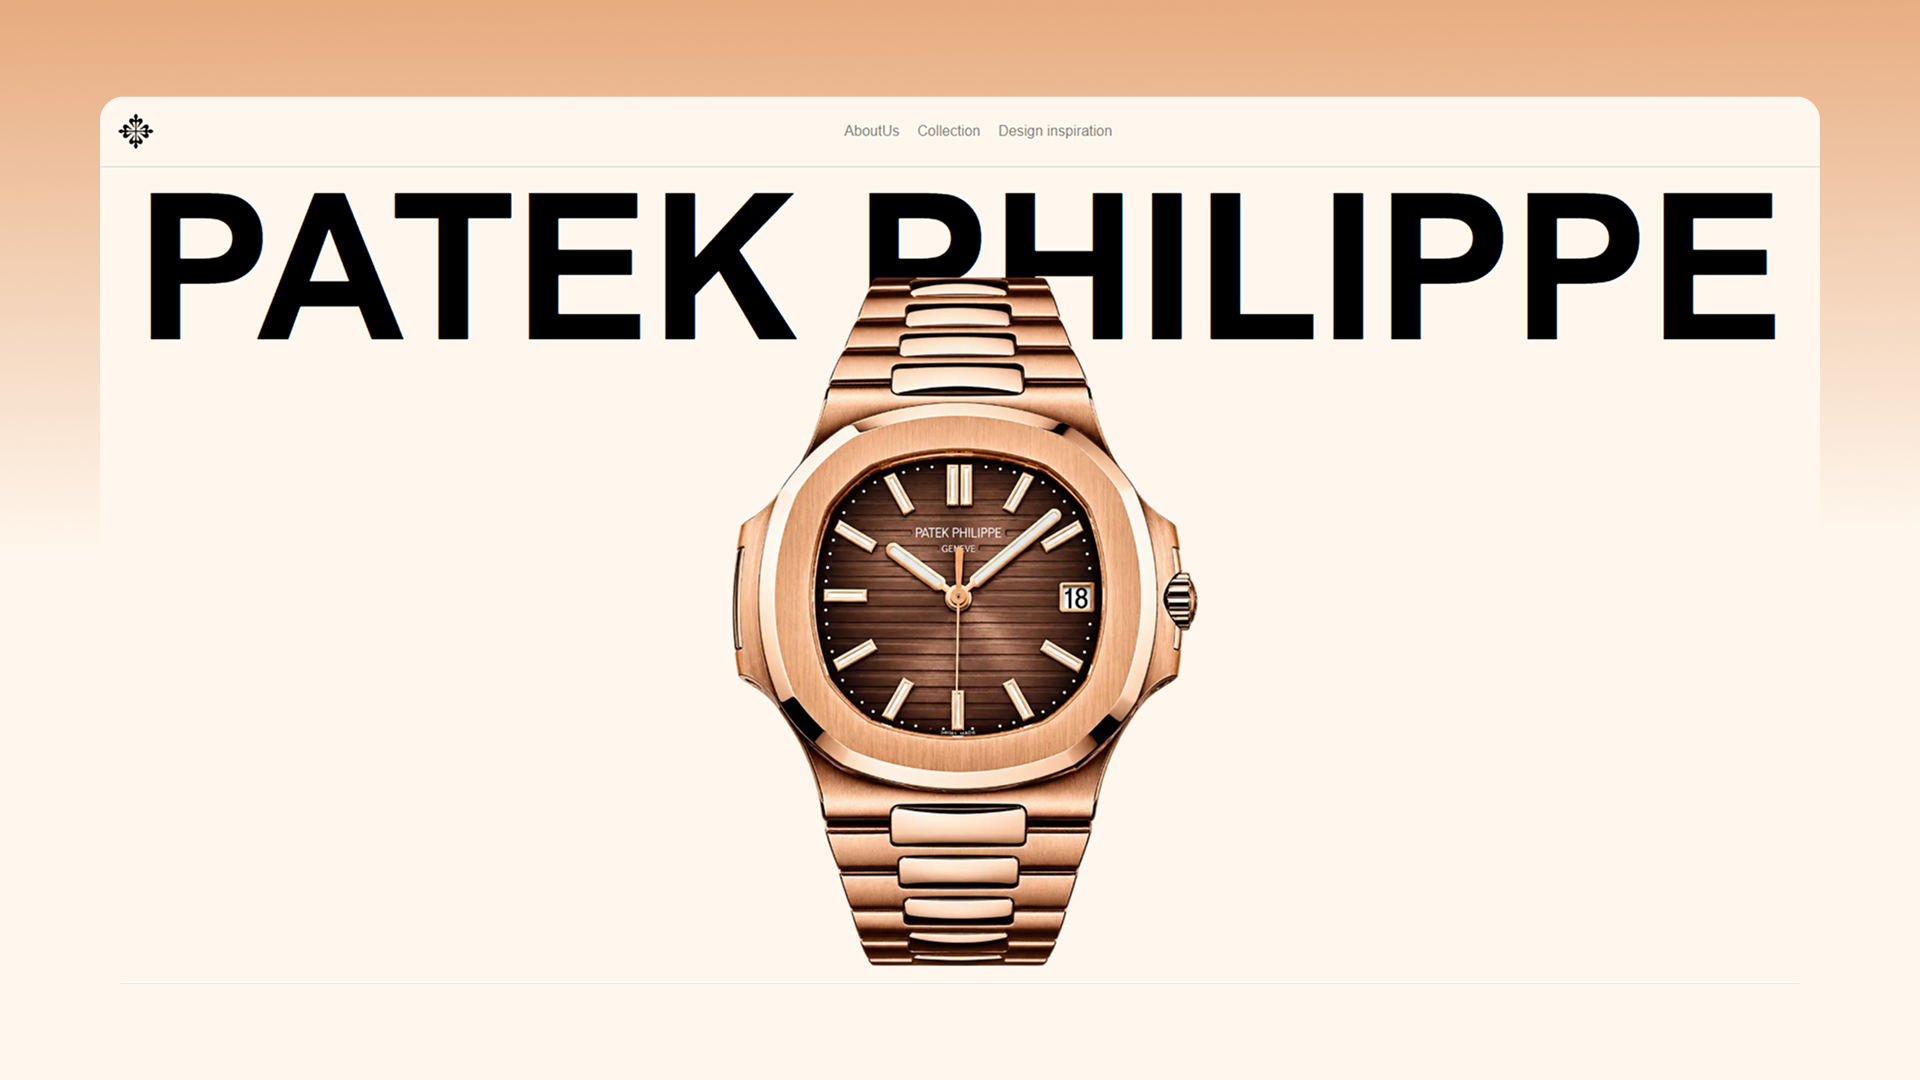
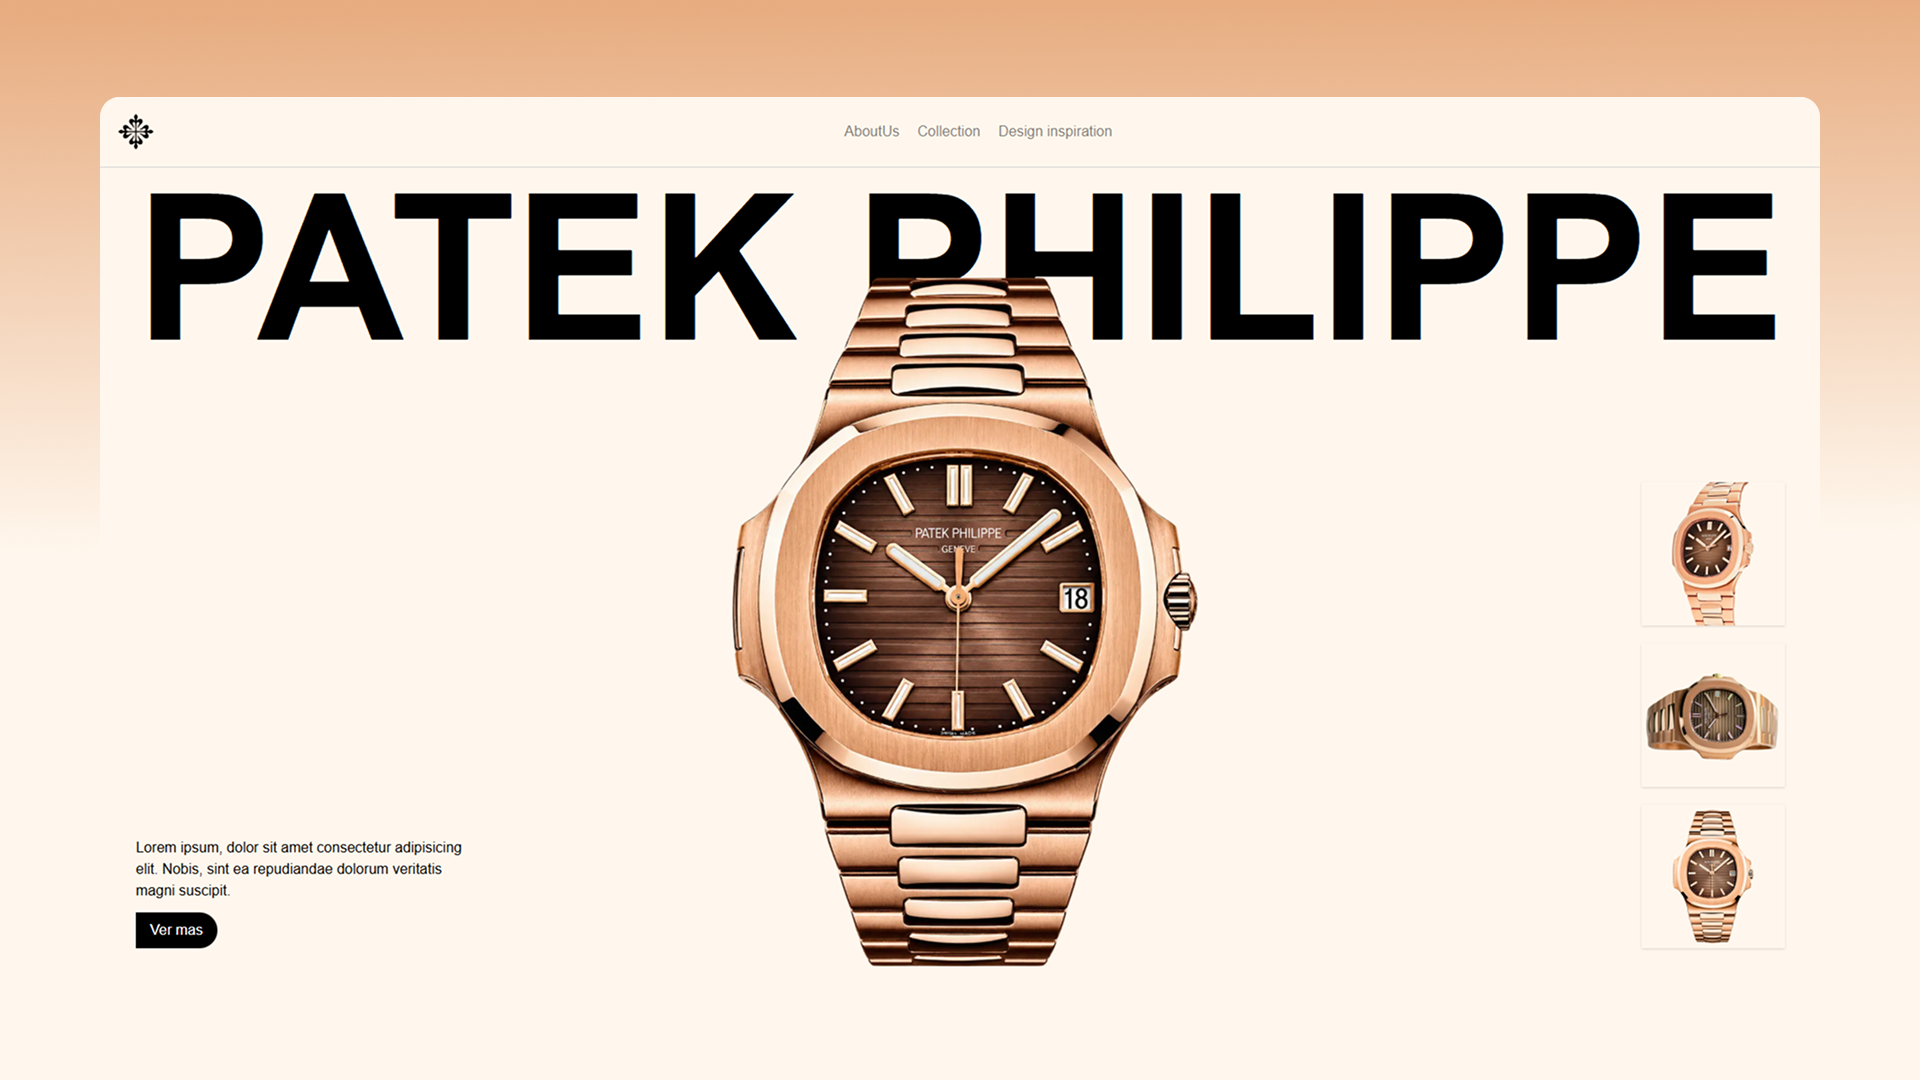
feat: enhance Landing and Explorer components with dynamic data integration and improved asset handling

diff --git a/app/templates/one-product-page/001/src/components/sections/Hero.tsx b/app/templates/one-product-page/001/src/components/sections/Hero.tsx
@@ -1,34 +1,19 @@
 import { FitText } from "../atoms/";
 import Image from "next/image";
 
-export const Hero = () => {
-  const isHub = process.env.NEXT_PUBLIC_ENV;
-  const hubDatails = [
-    "/001/detail2.png",
-    "/001/detail.png",
-    "/001/detail3.png",
-  ];
-  const details = ["/detail2.png", "/detail.png", "/detail3.png"];
-
-  const resolveDetails = () => (isHub ? hubDatails : details);
-
+export const Hero = ({ data }: { data: Hero }) => {
   return (
     <div className="w-full bg-orange-50 flex flex-col justify-start items-center p-10 pt-0 relative h-[calc(100vh-5rem)]">
-      <FitText className="text-black font-bold shrink-0">
-        PATEK PHILIPPE
-      </FitText>
+      <FitText className="text-black font-bold shrink-0">{data.title}</FitText>
       <div className="w-full h-full flex">
         <div className=" flex-1 text-black flex flex-col gap-3 justify-end">
-          <p className="max-w-96">
-            Lorem ipsum, dolor sit amet consectetur adipisicing elit. Nobis,
-            sint ea repudiandae dolorum veritatis magni suscipit.
-          </p>
+          <p className="max-w-96">{data.cta.paragraph}</p>
           <button className="px-4 py-2 bg-black rounded-r-full text-white w-fit cursor-pointer">
-            Ver mas
+            {data.cta.button}
           </button>
         </div>
         <div className=" flex-1 flex flex-col gap-5 justify-end items-end cursor-pointer">
-          {resolveDetails().map((e, i) => (
+          {data.productImg.map((e, i) => (
             <div
               className="bg-orange-50 max-w-40 aspect-square w-full flex justify-center items-center shadow"
               key={i}
@@ -45,7 +30,7 @@ export const Hero = () => {
         </div>
       </div>
       <Image
-        src={isHub ? "/001/HeroPic.png" : "/HeroPic.png"}
+        src={data.heroImg}
         width={2000}
         height={2000}
         priority

diff --git a/src/components/Sections/Explorer.tsx b/src/components/Sections/Explorer.tsx
@@ -5,6 +5,15 @@ import { motion } from "framer-motion";
 import { spring } from "../../utils";
 import Link from "next/link";
 import ReactLenis from "lenis/react";
+import Image from "next/image";
+
+const templates = [
+  {
+    img: "/001/demo.png",
+    alt: "Pagina de un producto",
+    path: "/preview/001",
+  },
+];
 
 export const Explorer = () => {
   const sectionRef = useRef<HTMLDivElement | null>(null);
@@ -74,11 +83,20 @@ export const Explorer = () => {
           className={`w-full h-full  rounded-4xl scrollbar-none overflow-y-auto`}
         >
           <div className="w-full grid grid-cols-3 gap-3">
-            {Array.from({ length: 15 }).map((_, i) => (
-              <div
-                className="w-full bg-background/30 border border-foreground/20 rounded-3xl h-96"
+            {templates.map((template, i) => (
+              <Link
+                href={template.path}
+                className="w-full bg-background/30 border border-foreground/20 rounded-3xl flex justify-center items-center overflow-hidden"
                 key={i}
-              ></div>
+              >
+                <Image
+                  width={1920}
+                  height={1080}
+                  alt=""
+                  src={template.img}
+                  className="w-full object-cover"
+                />
+              </Link>
             ))}
           </div>
         </ReactLenis>

diff --git a/app/templates/one-product-page/001/src/components/sections/WhatIs.tsx b/app/templates/one-product-page/001/src/components/sections/WhatIs.tsx
@@ -1,19 +1,14 @@
 import { FaArrowRightLong } from "react-icons/fa6";
-export const WhatIs = () => {
+export const WhatIs = ({ data }: { data: WhatIs }) => {
   return (
     <div className="w-full h-full bg-orange-50 flex justify-start items-center relative text-black p-20 border-t border-b border-neutral-300">
       <div className="w-full ">
         <h1 className="text-5xl max-w-96 font-bold font-huninn">
-          DISEÑADO PARA HACERTE SENTIR BIEN
+          {data.title}
         </h1>
       </div>
       <div className="w-full flex flex-col gap-5 group">
-        <p className="max-w-96 text-sm">
-          Lorem ipsum dolor sit, amet consectetur adipisicing elit. Placeat
-          reiciendis, nihil a non reprehenderit unde officia eum harum omnis
-          consequuntur iure magnam neque impedit pariatur hic molestias qui
-          sequi doloribus!
-        </p>
+        <p className="max-w-96 text-sm">{data.paragraph}</p>
         <FaArrowRightLong
           size={24}
           className="group-hover:-rotate-45 transition-all duration-300 opacity-50 group-hover:opacity-100"

diff --git a/app/preview/[slug]/page.tsx b/app/preview/[slug]/page.tsx
@@ -11,17 +11,17 @@ export default async function Preview({
   const { slug } = await params;
   console.log(slug);
 
-  const loader = templates[slug];
+  const template = templates[slug];
 
-  if (!loader) {
+  if (!template) {
     notFound();
   }
 
-  const { default: Landing } = await loader();
+  const { default: Landing } = await template.loader();
 
   return (
     <>
-      <Landing />
+      <Landing assetBasePath={template.assets} />
       <Link
         href={"/"}
         className="fixed bg-background/30 backdrop-blur border border-foreground/20 bottom-5 right-5 rounded-full flex justify-center items-center p-5 group hover:border-foreground transition-all duration-300 cursor-pointer opacity-50 hover:opacity-100 z-50"

diff --git a/app/templates/one-product-page/001/src/components/Landing.tsx b/app/templates/one-product-page/001/src/components/Landing.tsx
@@ -1,12 +1,25 @@
 import { Navbar } from "./organism";
 import { Hero, WhatIs } from "./sections";
+import data from "../../data.json";
 
-const Landing = () => {
+interface LandingProps {
+  assetBasePath?: string;
+}
+
+const Landing = ({ assetBasePath = "" }: LandingProps) => {
+  const asset = (path: string) => `${assetBasePath}/${path}`.replace("//", "/");
+
+  const hero: Hero = {
+    ...data.hero,
+    heroImg: asset(data.hero.heroImg),
+    productImg: data.hero.productImg.map(asset) as [string, string, string],
+  };
+
   return (
     <>
       <Navbar />
-      <Hero />
-      <WhatIs />
+      <Hero data={hero} />
+      <WhatIs data={data.whatIs} />
     </>
   );
 };

diff --git a/src/utils/resolveTemplates.ts b/src/utils/resolveTemplates.ts
@@ -1,10 +1,22 @@
 import type { ComponentType } from "react";
 
+export interface LandingProps {
+  assetBasePath: string;
+}
+
 type TemplateModule = {
-  default: ComponentType;
+  default: ComponentType<LandingProps>;
 };
 
-export const templates: Record<string, () => Promise<TemplateModule>> = {
-  "001": () =>
-    import("@/app/templates/one-product-page/001/src/components/Landing"),
+type Template = {
+  loader: () => Promise<TemplateModule>;
+  assets: string;
+};
+
+export const templates: Record<string, Template> = {
+  "001": {
+    loader: () =>
+      import("@/app/templates/one-product-page/001/src/components/Landing"),
+    assets: "/001",
+  },
 };

diff --git a/src/components/Sections/Hero.tsx b/src/components/Sections/Hero.tsx
@@ -17,28 +17,8 @@ const categories = [
 
 const banners = [
   {
-    img: "/banners/demo.png",
-    alt: "Futuristic design",
-    path: "/hola",
-  },
-  {
-    img: "/banners/demo2.png",
-    alt: "Chino",
-    path: "",
-  },
-  {
-    img: "/banners/demo3.png",
-    alt: "Chino",
-    path: "",
-  },
-  {
-    img: "/banners/demo4.png",
-    alt: "Chino",
-    path: "",
-  },
-  {
     img: "/001/demo.png",
-    alt: "Chino",
+    alt: "Pagina de un producto",
     path: "/preview/001",
   },
 ];

diff --git a/app/templates/one-product-page/001/src/types/index.ts b/app/templates/one-product-page/001/src/types/index.ts
@@ -1,0 +1,14 @@
+interface Hero {
+  title: string;
+  heroImg: string;
+  cta: {
+    paragraph: string;
+    button: string;
+  };
+  productImg: [string, string, string];
+}
+
+interface WhatIs {
+  title: string;
+  paragraph: string;
+}

diff --git a/app/templates/one-product-page/001/app/page.tsx b/app/templates/one-product-page/001/app/page.tsx
@@ -1,5 +1,5 @@
 import Landing from "../src/components/Landing";
 
 export default function Page() {
-  return <Landing />;
+  return <Landing assetBasePath="" />;
 }
